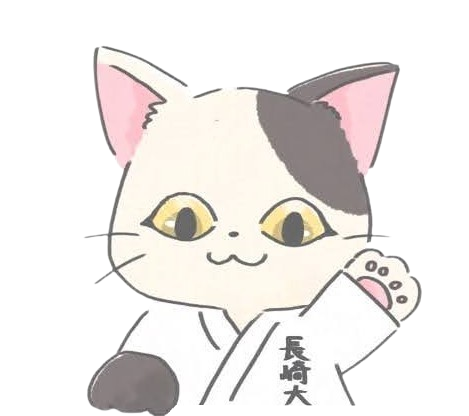
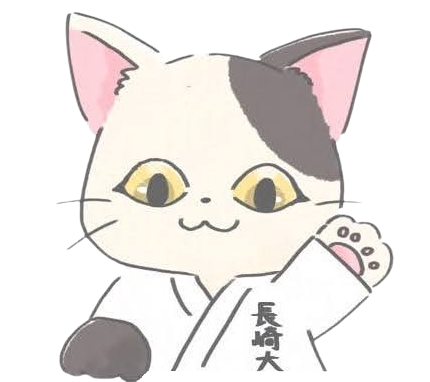
20250223updata2

diff --git a/style.css b/style.css
@@ -146,12 +146,13 @@ header nav ul li a:hover::after {
     }
 
     .judo-logo {
-        max-height: 70px; 
+        max-height: 74px; 
         margin-right: 0px;
         margin-left: 0px; 
     }
     .neko-logo {
-        max-height: 55px; 
+        max-height: 60px;
+        margin-left: -6px;
     }
 
     
